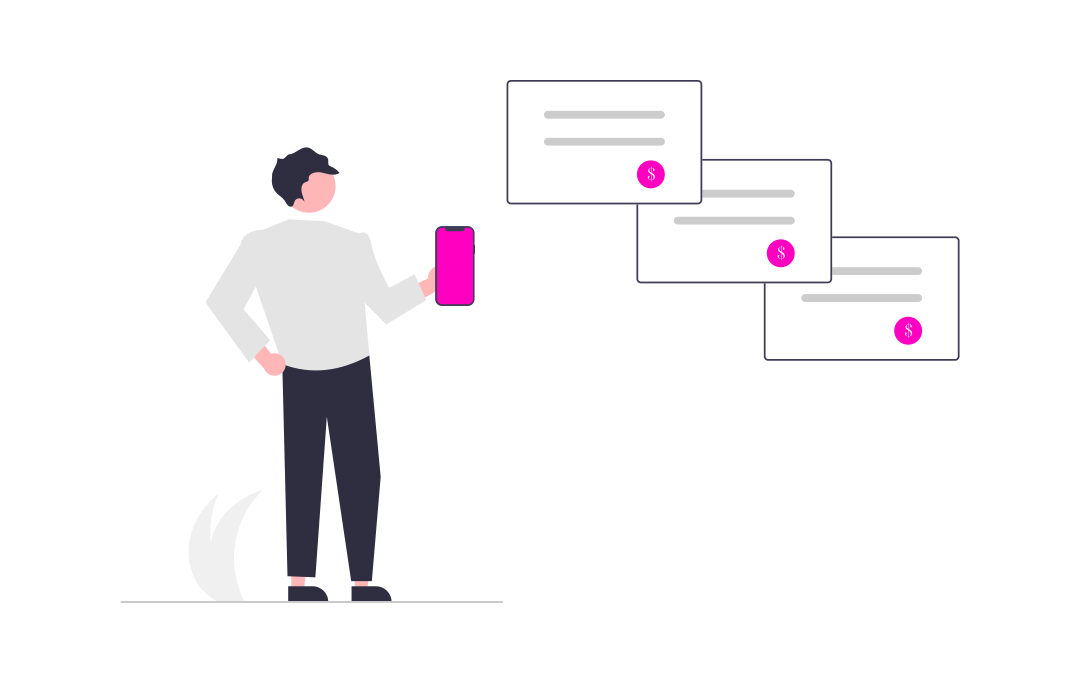
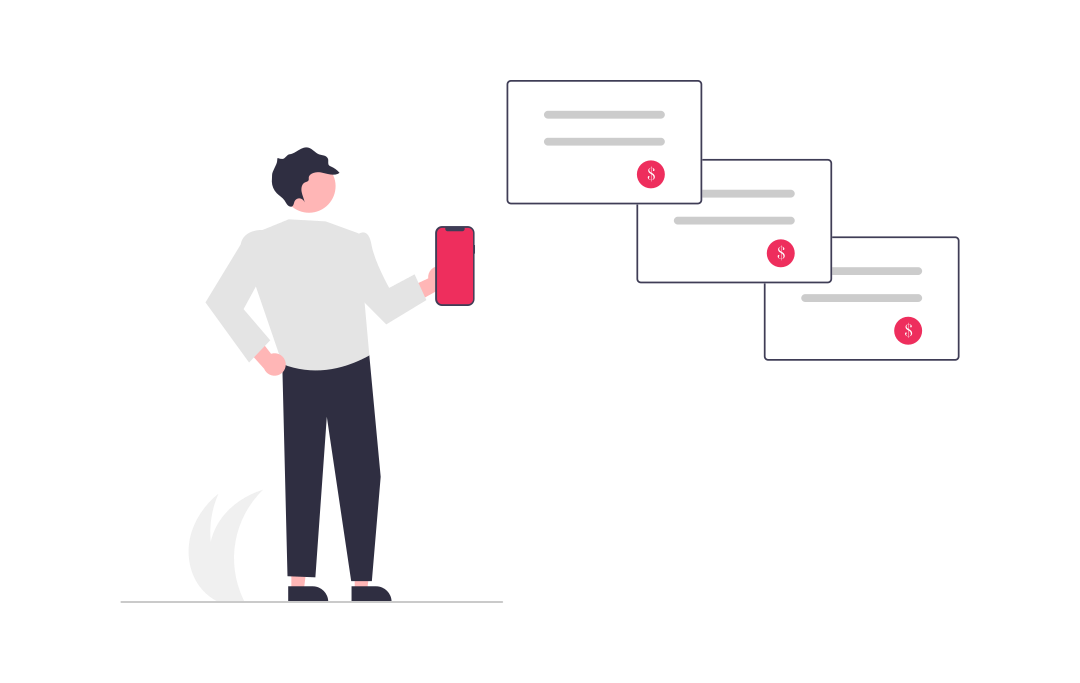
[feat] Upload files

diff --git a/lib/presenter/summary_page/itens_summary_page.dart b/lib/presenter/summary_page/itens_summary_page.dart
@@ -1,4 +1,5 @@
 import 'package:flutter/material.dart';
+import 'package:flutter_teste_app/shared/utils/format_money.dart';
 import 'package:pie_chart/pie_chart.dart';
 import 'info_chart_summary.dart';
 
@@ -37,7 +38,7 @@ class ItensSummaryPage extends StatelessWidget {
                 size: 20,
               ),
               Text(
-                'Gastos em julho, 2022',
+                'Saídas: julho, 2022',
                 style: TextStyle(
                   fontSize: 18,
                 ),
@@ -58,7 +59,7 @@ class ItensSummaryPage extends StatelessWidget {
             showChartValuesInPercentage: true,
             showChartValueBackground: false,
             chartValueStyle: TextStyle(
-              fontSize: 14,
+              fontSize: 13,
               fontWeight: FontWeight.bold,
               color: Colors.black,
             ),
@@ -67,35 +68,38 @@ class ItensSummaryPage extends StatelessWidget {
             showLegends: false,
           ),
         ),
-        const InfoChartSummary(
+        const SizedBox(
+          height: 15,
+        ),
+        InfoChartSummary(
           icon: Icons.restaurant,
           category: 'Alimentação',
-          value: 'R\$ 250,00',
-          colorIcon: Colors.red,
+          value: getCurrency(dataMap['Alimentação']),
+          colorIcon: colorList[0],
         ),
-        const InfoChartSummary(
+        InfoChartSummary(
           icon: Icons.shopping_bag,
           category: 'Compras',
-          value: 'R\$ 1.350,00',
-          colorIcon: Colors.yellow,
+          value: getCurrency(dataMap['Compras']),
+          colorIcon: colorList[1],
         ),
-        const InfoChartSummary(
+        InfoChartSummary(
           icon: Icons.house,
           category: 'Aluguel',
-          value: 'R\$ 1.600,00',
-          colorIcon: Colors.blue,
+          value: getCurrency(dataMap['Aluguel']),
+          colorIcon: colorList[2],
         ),
-        const InfoChartSummary(
+        InfoChartSummary(
           icon: Icons.phone,
           category: 'Telefone',
-          value: 'R\$ 95,55',
-          colorIcon: Colors.green,
+          value: getCurrency(dataMap['Telefone']),
+          colorIcon: colorList[3],
         ),
-        const InfoChartSummary(
+        InfoChartSummary(
           icon: Icons.request_page_rounded,
           category: 'Contas',
-          value: 'R\$ 458,90',
-          colorIcon: Colors.purple,
+          value: getCurrency(dataMap['Contas']),
+          colorIcon: colorList[4],
         ),
       ],
     );

diff --git a/lib/presenter/register_page/register_page.dart b/lib/presenter/register_page/register_page.dart
@@ -21,44 +21,39 @@ class RegistrationPage extends StatelessWidget {
     return Scaffold(
       body: SingleChildScrollView(
         physics: const BouncingScrollPhysics(),
-        child: Container(
-          decoration: BoxDecoration(
-            color: Colors.grey.shade100,
-          ),
-          child: Column(
-            children: [
-              const TextInputContainer(
-                textValue: 'Nome',
-              ),
-              const TextInputContainer(
-                textValue: 'Preço',
-              ),
+        child: Column(
+          children: [
+            const TextInputContainer(
+              textValue: 'Nome',
+            ),
+            const TextInputContainer(
+              textValue: 'Preço',
+            ),
 
-              Row(
-                mainAxisAlignment: MainAxisAlignment.spaceEvenly,
-                children: const [
-                  CustomButton(
-                    income: true,
-                    textValue: 'Income',
-                  ),
-                  CustomButton(
-                    income: false,
-                    textValue: 'Outcome',
-                  ),
-                ],
-              ),
-              const ComboBox(),
+            Row(
+              mainAxisAlignment: MainAxisAlignment.spaceEvenly,
+              children: const [
+                CustomButton(
+                  income: true,
+                  textValue: 'Income',
+                ),
+                CustomButton(
+                  income: false,
+                  textValue: 'Outcome',
+                ),
+              ],
+            ),
+            const ComboBox(),
 
-              // Imagem
-              Image.asset(
-                'images/cadastro.png',
-                // height: 200,
-                width: MediaQuery.of(context).size.width,
-              ),
-              // Terminar button
-              const CustomSendButton(),
-            ],
-          ),
+            // Imagem
+            Image.asset(
+              'assets/images/cadastro.png',
+              // height: 200,
+              width: MediaQuery.of(context).size.width,
+            ),
+            // Terminar button
+            const CustomSendButton(),
+          ],
         ),
       ),
     );

diff --git a/lib/presenter/home_page/widgets/main_container_home.dart b/lib/presenter/home_page/widgets/main_container_home.dart
@@ -4,6 +4,7 @@ import '../../../shared/utils/format_money.dart';
 
 class MainContainerHome extends StatelessWidget {
   final int index;
+  final String subText;
   final double value;
   late final String entry;
   late final IconData icon;
@@ -15,6 +16,7 @@ class MainContainerHome extends StatelessWidget {
   MainContainerHome({
     Key? key,
     required this.index,
+    required this.subText,
     required this.value,
   }) : super(key: key);
 
@@ -52,7 +54,7 @@ class MainContainerHome extends StatelessWidget {
         vertical: 10,
       ),
       height: 150,
-      width: MediaQuery.of(context).size.width - 30,
+      width: MediaQuery.of(context).size.width - 40,
       decoration: BoxDecoration(
         color: background,
         borderRadius: BorderRadius.circular(10),
@@ -65,7 +67,7 @@ class MainContainerHome extends StatelessWidget {
         ],
       ),
       child: Padding(
-        padding: const EdgeInsets.all(8.0),
+        padding: const EdgeInsets.all(12.0),
         child: Column(
           crossAxisAlignment: CrossAxisAlignment.start,
           children: [
@@ -97,7 +99,7 @@ class MainContainerHome extends StatelessWidget {
             ),
             const SizedBox(height: 5),
             Text(
-              'Última entrada dia 1º de julho',
+              subText,
               style: TextStyle(
                 color: textColor,
               ),

diff --git a/lib/presenter/home_page/widgets/body_home.dart b/lib/presenter/home_page/widgets/body_home.dart
@@ -21,19 +21,18 @@ class BodyHome extends StatelessWidget {
               children: [
                 Row(
                   children: [
-                    MainContainerHome(index: 1, value: 18000),
-                    MainContainerHome(index: 2, value: 870),
-                    MainContainerHome(index: 3, value: 17130),
+                    MainContainerHome(index: 1, subText: 'Última entrada dia 1º de julho', value: 18000),
+                    MainContainerHome(index: 2, subText: 'Última entrada dia 22 de junho', value: 870),
+                    MainContainerHome(index: 3, subText: '1º à 11 de julho', value: 17130),
                   ],
                 ),
               ],
             ),
           ),
-          const SizedBox(height: 15),
           Row(
             children: const [
               Padding(
-                padding: EdgeInsets.only(left: 10),
+                padding: EdgeInsets.only(left: 20),
                 child: Text(
                   'Extrato',
                   style: TextStyle(

diff --git a/lib/presenter/home_page/widgets/drawer_home.dart b/lib/presenter/home_page/widgets/drawer_home.dart
@@ -14,7 +14,7 @@ class DrawerHome extends StatelessWidget {
             height: 130,
             child: DrawerHeader(
               decoration: const BoxDecoration(
-                color: Color.fromARGB(255, 210, 52, 105),
+                color: Color.fromRGBO(238, 46, 93, 1),
               ),
               child: Column(
                 children: [
@@ -23,7 +23,7 @@ class DrawerHome extends StatelessWidget {
                       CircleAvatar(
                         child: Icon(
                           Icons.person,
-                          color: Color.fromARGB(255, 210, 52, 105),
+                          color: Color.fromRGBO(238, 46, 93, 1),
                           size: 20,
                         ),
                         radius: 10,

diff --git a/lib/presenter/home_page/widgets/other_container.dart b/lib/presenter/home_page/widgets/other_container.dart
@@ -39,13 +39,13 @@ class OtherContainer extends StatelessWidget {
         ],
       ),
       child: Padding(
-        padding: const EdgeInsets.all(8.0),
+        padding: const EdgeInsets.all(12.0),
         child: Column(
           crossAxisAlignment: CrossAxisAlignment.start,
           children: [
             Text(
               origin,
-              style: const TextStyle(fontSize: 17),
+              style: const TextStyle(fontSize: 17,),
             ),
             const SizedBox(height: 10),
             Text(

diff --git a/lib/presenter/register_page/widgets/custom_send_button.dart b/lib/presenter/register_page/widgets/custom_send_button.dart
@@ -10,7 +10,7 @@ class CustomSendButton extends StatelessWidget {
     return Container(
       width: MediaQuery.of(context).size.width,
       decoration: BoxDecoration(
-        color: const Color.fromARGB(255, 210, 52, 105),
+        color: const Color.fromRGBO(238, 46, 93, 1),
         borderRadius: BorderRadius.circular(5),
       ),
       margin: const EdgeInsets.symmetric(

diff --git a/lib/presenter/home_page/home_page.dart b/lib/presenter/home_page/home_page.dart
@@ -49,7 +49,7 @@ class _HomePageState extends State<HomePage> {
   Widget build(BuildContext context) {
     return Scaffold(
       appBar: AppBar(
-        backgroundColor: const Color.fromARGB(255, 210, 52, 105),
+        backgroundColor: const Color.fromRGBO(238, 46, 93, 1),
         title: Text(getTitleAppBar()),
         centerTitle: true,
       ),

diff --git a/lib/presenter/login_page/login_page.dart b/lib/presenter/login_page/login_page.dart
@@ -8,7 +8,7 @@ class LoginPage extends StatelessWidget {
   @override
   Widget build(BuildContext context) {
     return Scaffold(
-      backgroundColor: const Color.fromARGB(255, 210, 52, 105),
+      backgroundColor: Color.fromRGBO(238, 46, 93, 1),
       body: SingleChildScrollView(
         child: Center(
           child: Padding(
